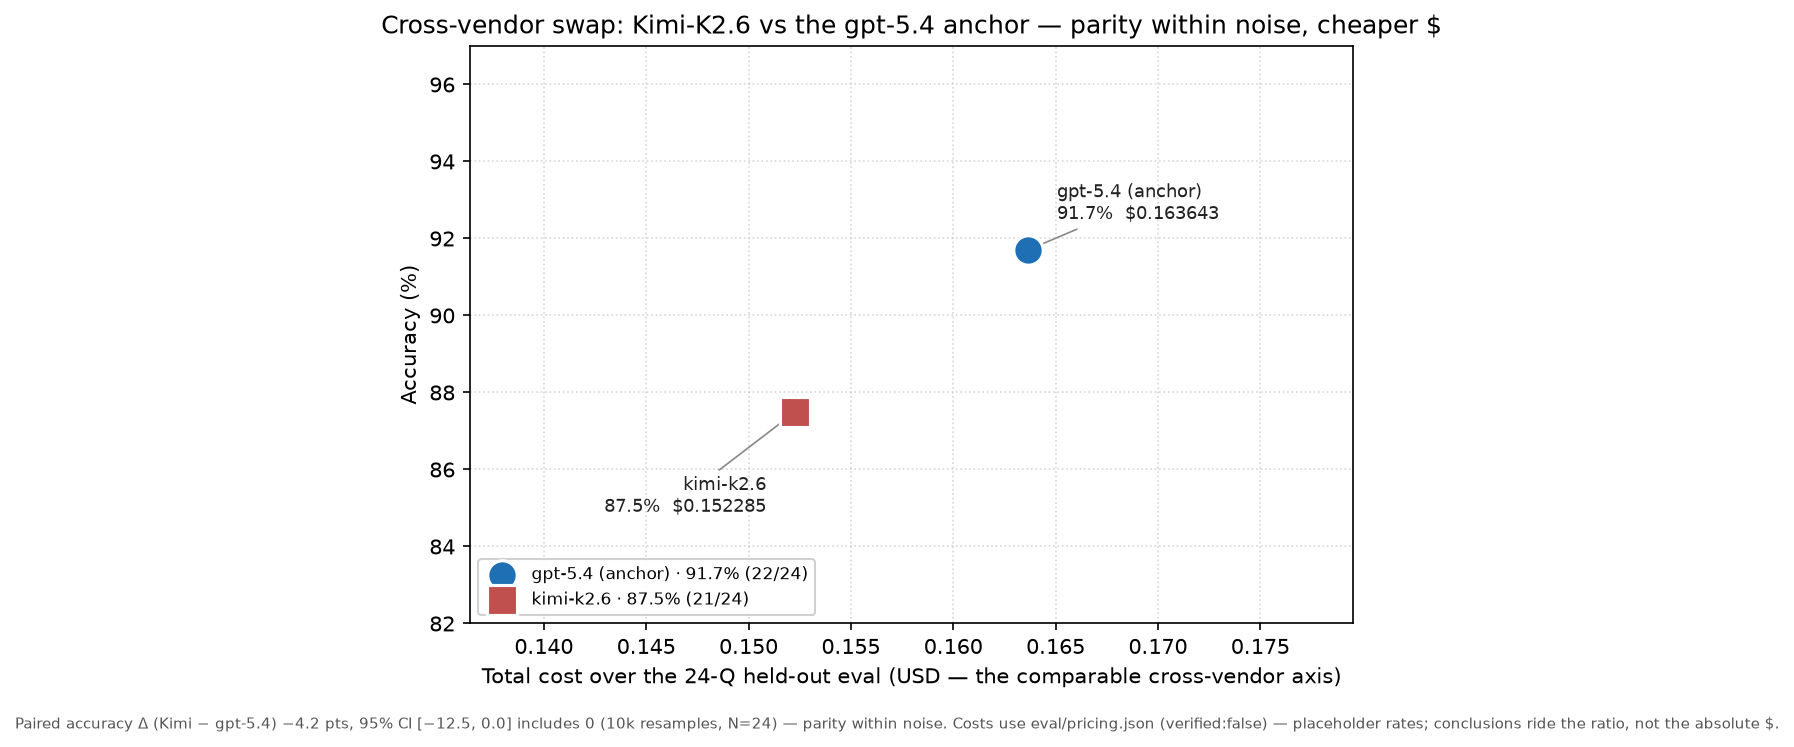
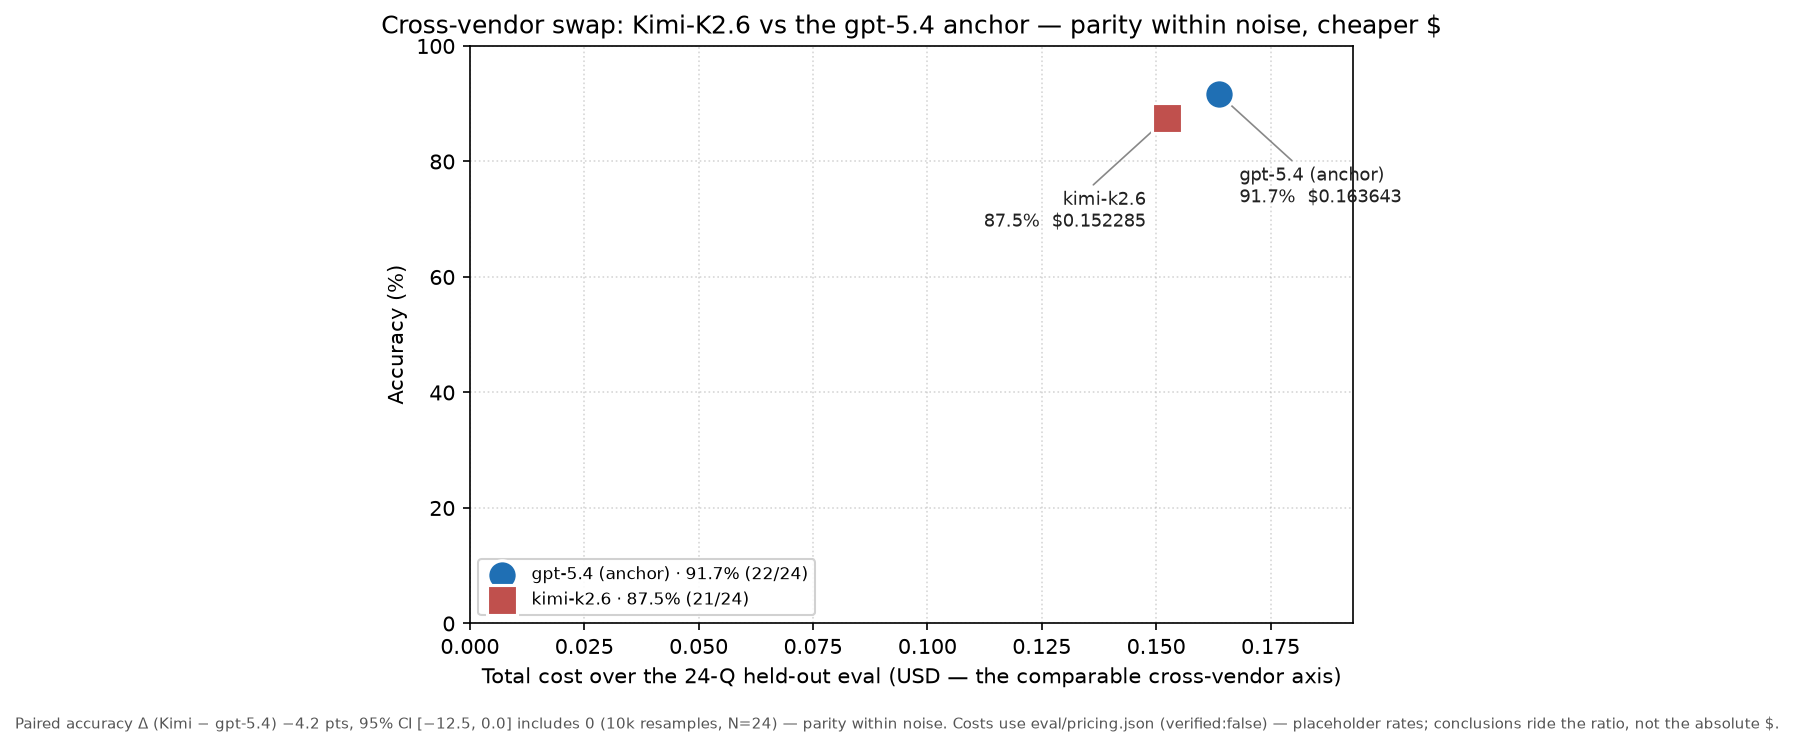
H-6: zero-base both axes on the cross-vendor chart (honest scale)
Review of docs/assets/xvendor_accuracy_vs_cost.png flagged that the truncated y-axis (82-97) visually exaggerated the 4.2-pt accuracy gap we characterize as parity within noise. Anchor both axes at 0 (ylim 0-100, xlim 0..hi*1.18) so the two points read as near-equal and the modest saving isn't over-stated; move both point labels below their markers to avoid top-edge clipping. Exact acc% and USD stay on the data labels. No other chart fn or enshrined file touched; numbers still read from JSON at runtime.

Copilot-Session: 7f8b46f3-755d-47ce-9b01-cee996f51227

diff --git a/scripts/make_charts.py b/scripts/make_charts.py
@@ -301,12 +301,14 @@ def chart_xvendor_accuracy_vs_cost(pair: list[dict]) -> None:
         )
 
     leader = dict(arrowstyle="-", color="#888", lw=0.8, shrinkA=0, shrinkB=4)
+    # Both points sit high on the now zero-based y-axis, so anchor every label
+    # BELOW its marker to keep them clear of the top edge.
     point_labels = {
-        "gpt-5.4": dict(xytext=(14, 12), ha="left", va="bottom"),
-        "kimi-k2.6": dict(xytext=(-14, -30), ha="right", va="top"),
+        "gpt-5.4": dict(xytext=(10, -34), ha="left", va="top"),
+        "kimi-k2.6": dict(xytext=(-10, -34), ha="right", va="top"),
     }
     for r in pair:
-        off = point_labels.get(r["model"], dict(xytext=(12, 10), ha="left", va="bottom"))
+        off = point_labels.get(r["model"], dict(xytext=(10, -34), ha="left", va="top"))
         ax.annotate(
             f"{r['short']}\n{r['accuracy_pct']:.1f}%  ${r['cost_usd']:.6f}",
             (r["cost_usd"], r["accuracy_pct"]),
@@ -315,10 +317,12 @@ def chart_xvendor_accuracy_vs_cost(pair: list[dict]) -> None:
         )
 
     costs = [r["cost_usd"] for r in pair]
-    lo, hi = min(costs), max(costs)
-    span = (hi - lo) or hi * 0.1
-    ax.set_xlim(lo - span * 1.4, hi + span * 1.4)
-    ax.set_ylim(82, 97)
+    hi = max(costs)
+    # Honest, zero-based axes (issue #58 review): accuracy is a 0–100% metric and
+    # cost is a magnitude, so anchoring BOTH at 0 stops the truncated y-axis from
+    # exaggerating the 4.2-pt gap while a zoomed x-axis over-states the saving.
+    ax.set_xlim(0, hi * 1.18)
+    ax.set_ylim(0, 100)
     ax.set_xlabel("Total cost over the 24-Q held-out eval (USD — the comparable cross-vendor axis)")
     ax.set_ylabel("Accuracy (%)")
     ax.set_title("Cross-vendor swap: Kimi-K2.6 vs the gpt-5.4 anchor — parity within noise, cheaper $")
